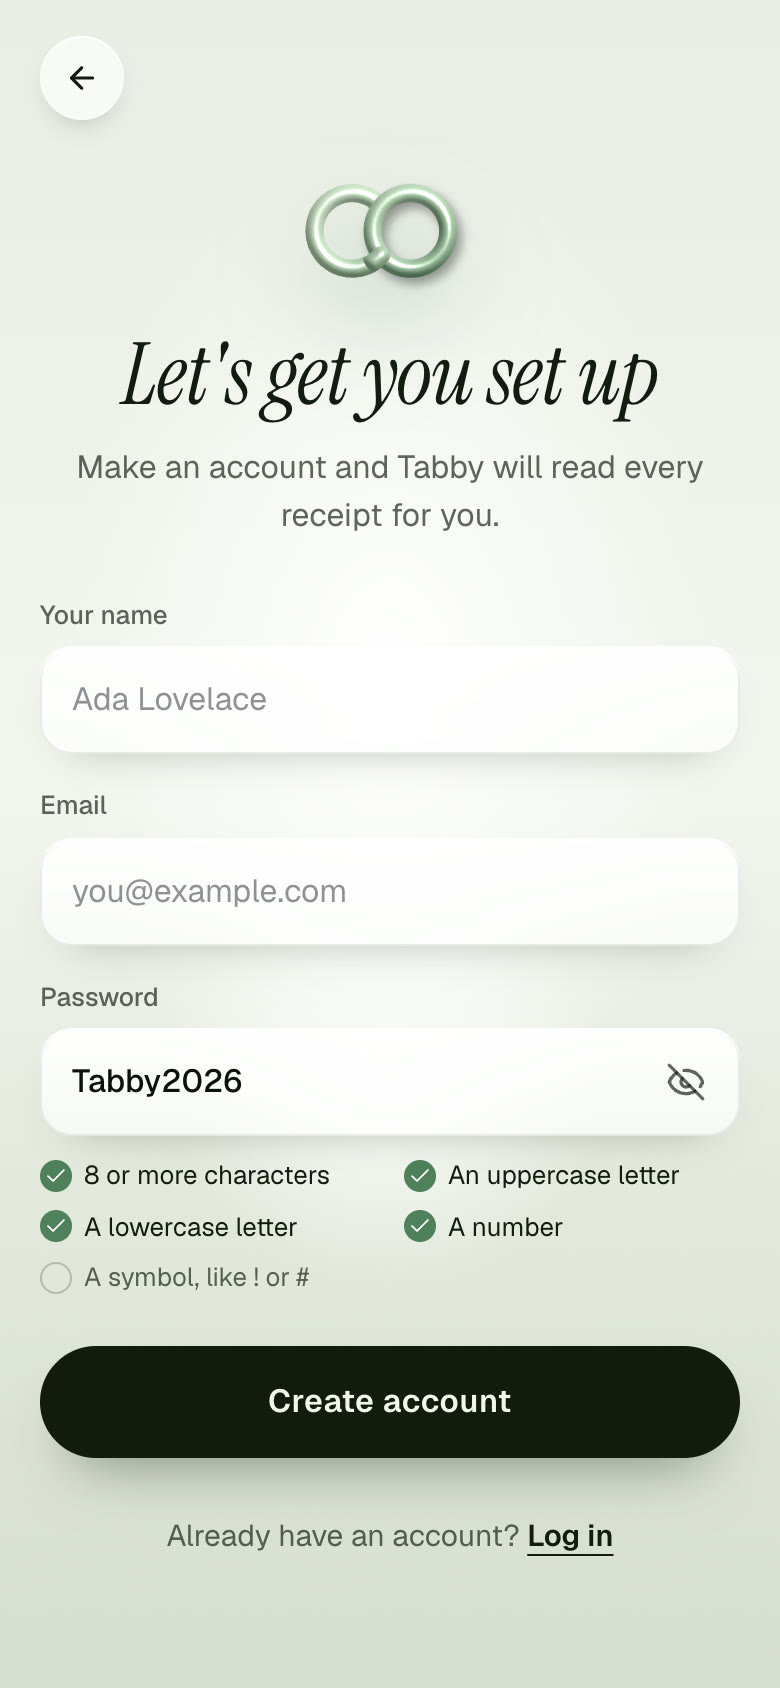
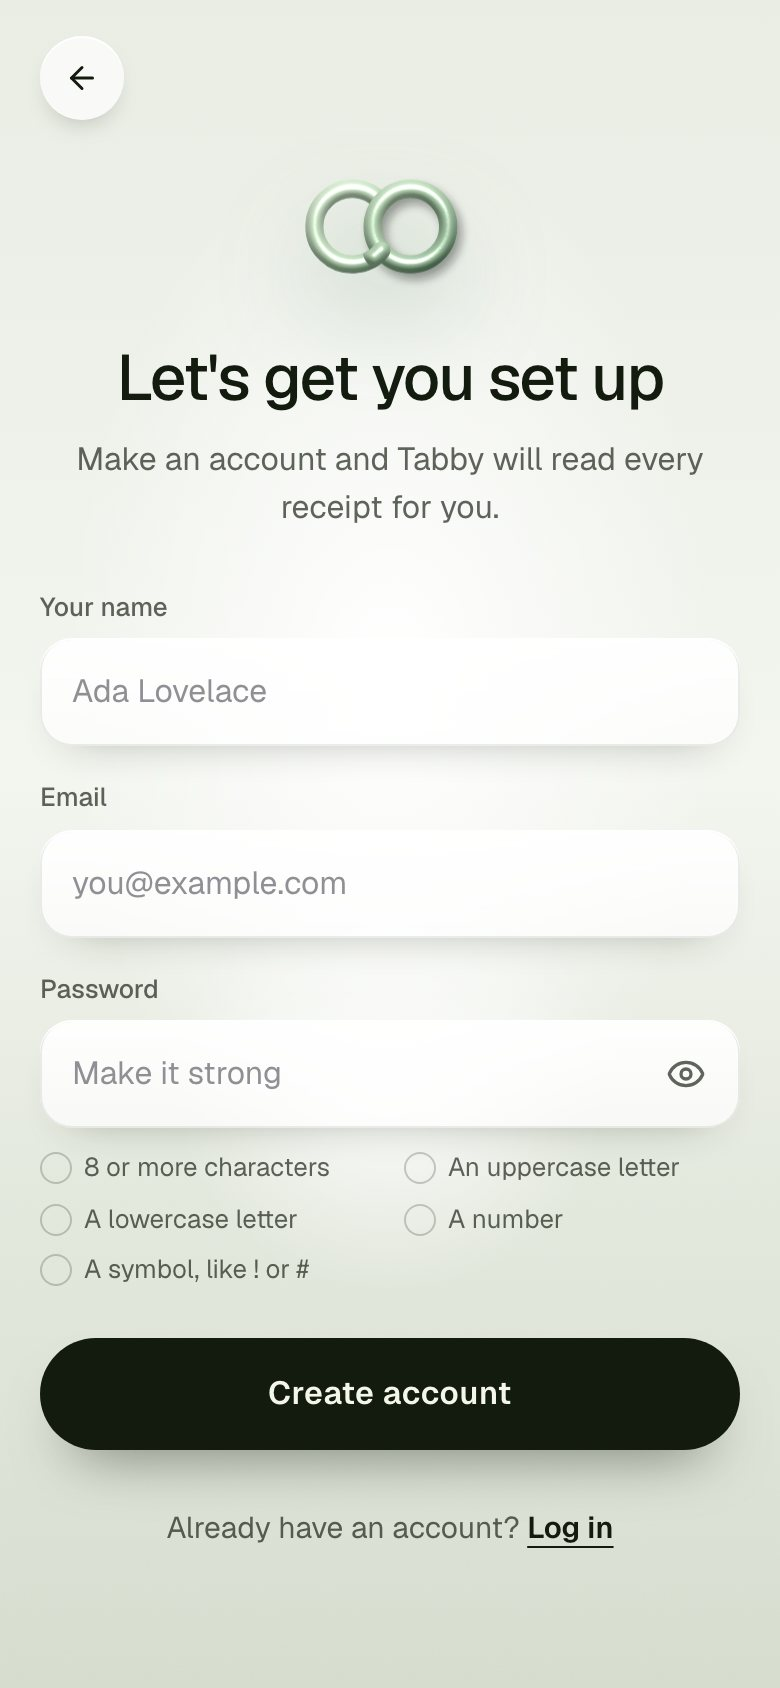
README: show the redesigned app and landing page
New screenshots of Home, Tabs, Insights, the night theme and Preferences, plus
the floating receipts. Adds settling up, the calendar and preferences to what
Cotab does, and brings the test counts up to date. The tour shots are gone
because they showed the old look.

diff --git a/README.md b/README.md
@@ -26,7 +26,7 @@ keeps your budgets honest and splits the bill with friends.
 
 <br>
 
-![The Cotab landing page: Receipts, split by Tabby, with Tabby waving in front of his name](docs/readme/landing-hero.jpg)
+![The Cotab landing page: Receipts, read by Tabby, with Tabby waving in front of his name](docs/readme/landing-hero.jpg)
 
 ## What Cotab does
 
@@ -37,21 +37,26 @@ keeps your budgets honest and splits the bill with friends.
 | 🎯 **Budgets down to one item** | Plans for the month, a category, a shop or a single item, weekly, monthly or yearly. Tabby warns you before one runs out. |
 | 🍟 **Fair splits** | Split evenly or line by line. Tax is shared in proportion and every cent lands on somebody. Friends need no account: they get a read-only link and pay with Venmo, PayPal, Cash App or Zelle. |
 | 💬 **Ask Tabby** | Ask in plain words: *"How much did I spend on coffee in October?"* Answers come straight away. Any change waits for your yes. |
+| 💸 **Settle up** | See who you owe and who owes you, open the bill behind any amount, and pay in Venmo, PayPal, Cash App or Zelle. Cotab never moves money: a payment counts once you record it. |
+| 🗓 **See where it went** | A spending calendar with a list view, six months of bars you can tap, and a breakdown by category. |
+| 🎨 **Make it yours** | Day, night or system theme, liquid glass or plain cards, and four colours. |
 | 🔔 **Nudges, not noise** | Budget alerts, reminders for friends who still owe, and a weekly summary, by push notification or email. |
 
 <p align="center">
-  <img src="frontend/public/landing/app-today.webp" alt="Today: $495.87 safe to spend" width="240">
-  <img src="frontend/public/landing/app-tabs.webp" alt="Tabs: who owes what" width="240">
-  <img src="frontend/public/landing/app-tabby.webp" alt="Ask Tabby" width="240">
+  <img src="docs/readme/app-home.jpg" alt="Home: $505.69 safe to spend, with shortcuts and Tabby's brief" width="240">
+  <img src="docs/readme/app-tabs.jpg" alt="Tabs: who owes what" width="240">
+  <img src="docs/readme/app-insights.jpg" alt="Insights: month bars and a spending calendar" width="240">
 </p>
-<p align="center"><sub>Today · Tabs · Ask Tabby</sub></p>
+<p align="center"><sub>Home · Tabs · Insights</sub></p>
 
 <p align="center">
-  <img src="docs/readme/phone-start.jpg" alt="The tour before sign-up: The AI agent for your receipts" width="240">
-  <img src="docs/readme/phone-tour.jpg" alt="Tour step: Every receipt, read" width="240">
-  <img src="docs/readme/phone-register.jpg" alt="Sign up, with the password checklist ticking as you type" width="240">
+  <img src="docs/readme/app-home-night.jpg" alt="Home in the plain night theme" width="240">
+  <img src="docs/readme/app-prefs.jpg" alt="Preferences: theme, cards and colour" width="240">
+  <img src="docs/readme/phone-register.jpg" alt="Sign up, with the password checklist" width="240">
 </p>
-<p align="center"><sub>The tour · Every receipt, read · Sign up with a strong password</sub></p>
+<p align="center"><sub>Night theme · Preferences · Sign up with a strong password</sub></p>
+
+![Snapped. Read. Settled. Paper receipts float in 3D around Tabby, who has landed on one](docs/readme/landing-receipts.jpg)
 
 ## How it works
 
@@ -167,9 +172,9 @@ Every variable is listed in [`.env.example`](.env.example) and read in [`backend
 
 | Suite | Count | Run it |
 |---|---|---|
-| Backend (pytest) | 823 tests | `cd backend && pytest -q` |
-| Frontend unit (Vitest) | 173 tests | `cd frontend && npm test` |
-| Browser (Playwright) | 49 tests | `cd frontend && npm run test:e2e` |
+| Backend (pytest) | 826 tests | `cd backend && pytest -q` |
+| Frontend unit (Vitest) | 185 tests | `cd frontend && npm test` |
+| Browser (Playwright) | 50 tests | `cd frontend && npm run test:e2e` |
 
 All three run in GitHub Actions on every push and pull request, along with formatting, linting and type checks.
 
